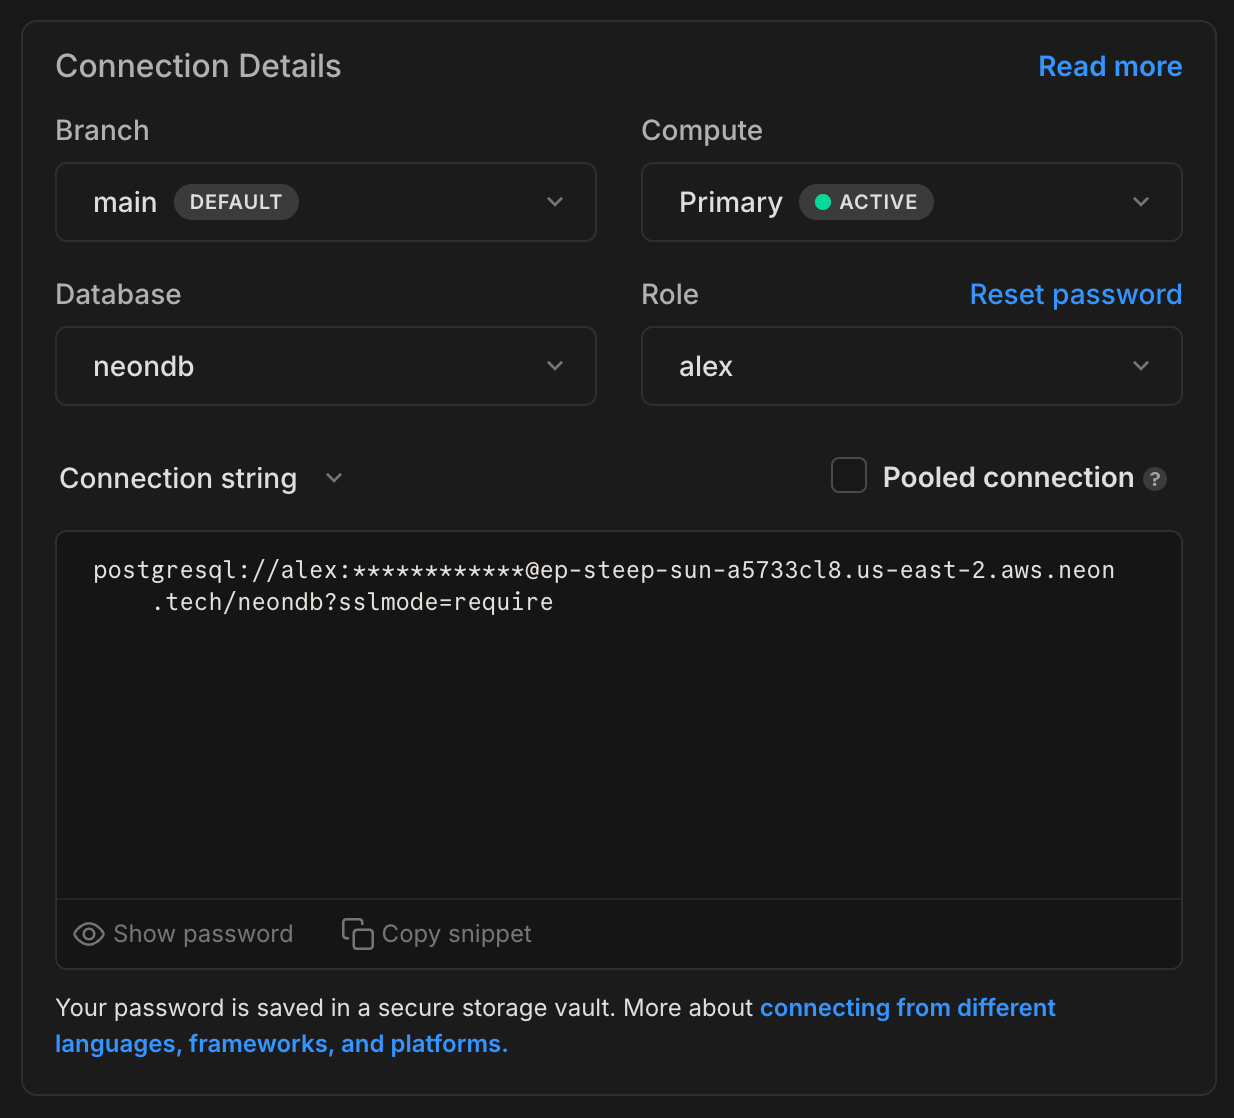
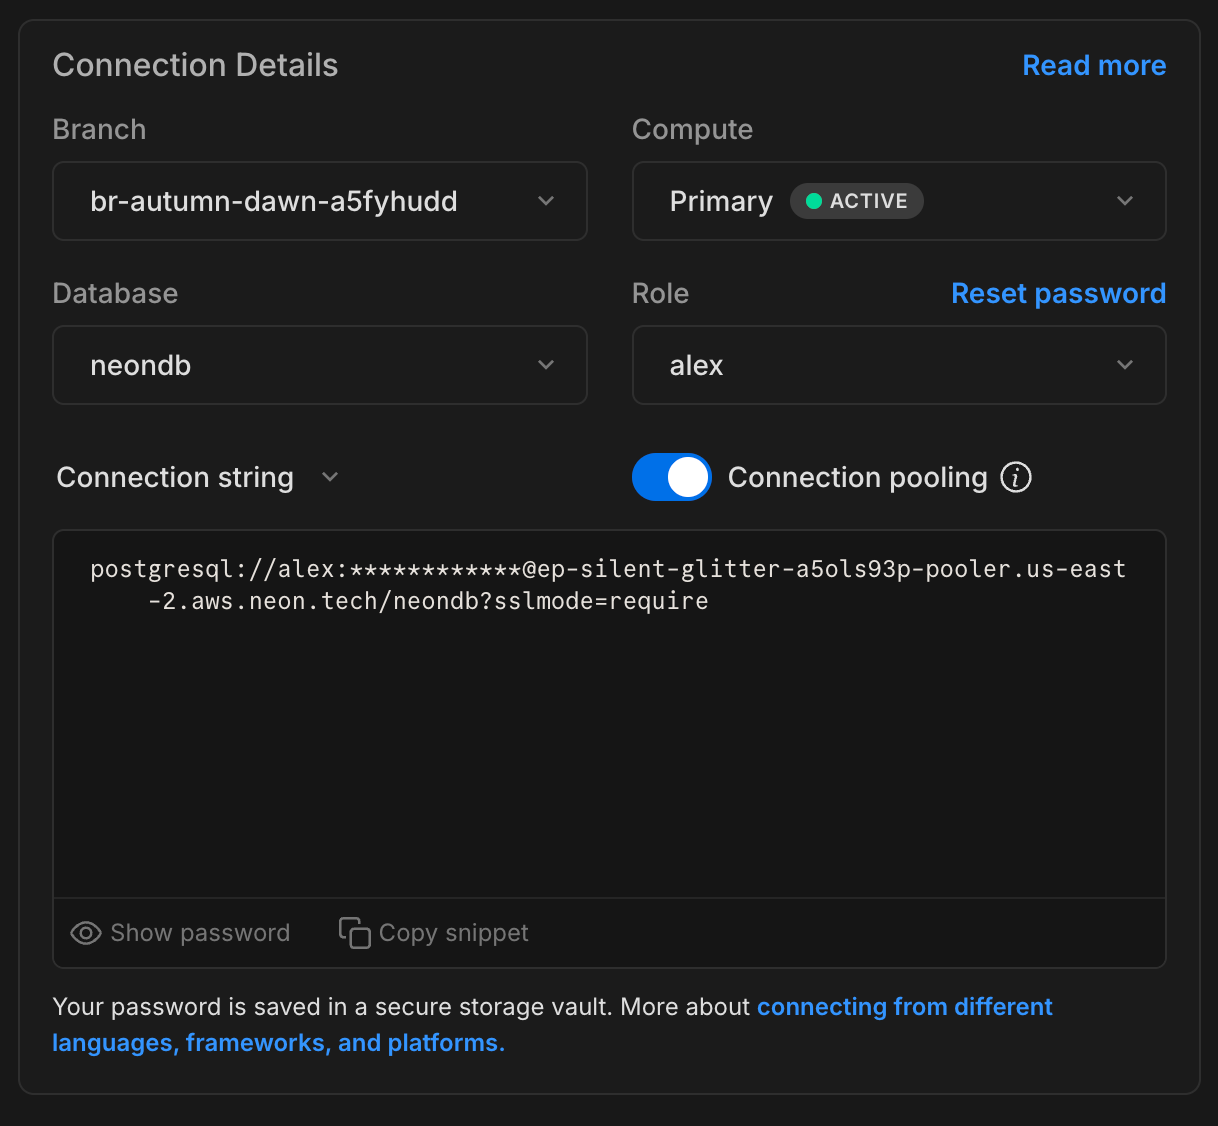
docs: update connection pooling label

diff --git a/content/docs/reference/glossary.md b/content/docs/reference/glossary.md
@@ -367,7 +367,7 @@ postgresql://alex:AbC123dEf@ep-cool-darkness-123456-pooler.us-east-2.aws.neon.te
 
 A pooled connection can support a high number of concurrent users and is recommended for use with serverless and edge functions. For more information, see [Connection pooling](/docs/connect/connection-pooling).
 
-You can obtain a pooled connection string for your database from the **Connection Details** widget on the Neon Dashboard. Select the **Pooled connection** option to add the `-pooler` option to the connection string. For further instructions, see [How to use connection pooling](/docs/connect/connection-pooling#how-to-use-connection-pooling).
+You can obtain a pooled connection string for your database from the **Connection Details** widget on the Neon Dashboard. Select the **Connection pooling** option to add the `-pooler` option to the connection string. For further instructions, see [How to use connection pooling](/docs/connect/connection-pooling#how-to-use-connection-pooling).
 
 ## PostgreSQL
 
@@ -537,7 +537,7 @@ An unpooled connection string connects to your Neon database directly. It does n
 postgresql://alex:AbC123dEf@ep-cool-darkness-123456.us-east-2.aws.neon.tech/dbname
 ```
 
-You can obtain an unpooled connection string for your database from the **Connection Details** widget on the Neon Dashboard. Ensure that the **Pooled connection** option is **not** selected. A direct connection is subject to the `max_connections` limit for your compute. For more information, see [How to size your compute](/docs/manage/endpoints#how-to-size-your-compute).
+You can obtain an unpooled connection string for your database from the **Connection Details** widget on the Neon Dashboard. Ensure that the **Connection pooling** option is **not** selected. A direct connection is subject to the `max_connections` limit for your compute. For more information, see [How to size your compute](/docs/manage/endpoints#how-to-size-your-compute).
 
 ## Time Travel
 

diff --git a/content/docs/get-started-with-neon/production-checklist.md b/content/docs/get-started-with-neon/production-checklist.md
@@ -77,7 +77,7 @@ The Postgres `max_connections` setting defines your basic maximum simultaneous c
 postgresql://alex:AbC123dEf@ep-cool-darkness-123456-pooler.us-east-2.aws.neon.tech/dbname?sslmode=require
 ```
 
-The `-pooler` flag directs connections to a connection pooling port at the Neon proxy. Unless you have a specific reason to avoid connection pooling, we recommend using it in production. You can copy a pooled connection string for your database from the **Connection Details** widget on your project's **Dashboard** in the Neon Console. Select the **Pooled connection** option. For more information, see [Connection pooling](/docs/connect/connection-pooling).
+The `-pooler` flag directs connections to a connection pooling port at the Neon proxy. Unless you have a specific reason to avoid connection pooling, we recommend using it in production. You can copy a pooled connection string for your database from the **Connection Details** widget on your project's **Dashboard** in the Neon Console. Enable the **Connection pooling** toggle. For more information, see [Connection pooling](/docs/connect/connection-pooling).
 
 ## Configure your history retention period
 

diff --git a/content/docs/connect/connection-pooling.md b/content/docs/connect/connection-pooling.md
@@ -17,9 +17,9 @@ To use connection pooling with Neon, use a pooled connection string instead of a
 postgresql://alex:AbC123dEf@ep-cool-darkness-123456-pooler.us-east-2.aws.neon.tech/dbname?sslmode=require
 ```
 
-The **Connection Details** widget on the Neon **Dashboard** provides **Pooled connection** checkbox that adds the `-pooler` option to a connection string for you. You can copy a pooled connection string from the **Dashboard** or manually add the `-pooler` option to the endpoint ID in an existing connection string.
+The **Connection Details** widget on the Neon **Dashboard** provides **Connection pooling** toggle that adds the `-pooler` option to a connection string for you. You can copy a pooled connection string from the **Dashboard** or manually add the `-pooler` option to the endpoint ID in an existing connection string.
 
-![Connection Details pooled connection string](/docs/connect/connection_details_pooled.png)
+![Connection Details pooled connection string](/docs/connect/connection_details.png)
 
 <Admonition type="info">
 The `-pooler` option routes the connection to a connection pooling port at the Neon Proxy.

diff --git a/content/docs/guides/read-replica-prisma.md b/content/docs/guides/read-replica-prisma.md
@@ -73,7 +73,7 @@ Connecting to a read replica is the same as connecting to any branch in a Neon p
    postgresql://alex:AbC123dEf@ep-cool-darkness-123456.us-east-2.aws.neon.tech/dbname
    ```
 
-   If you expect a high number of connections, select **Pooled connection** to add the `-pooler` flag to the connection string, but remember to append `?pgbouncer=true` to the connection string when using a pooled connection. Prisma requires this flag when using Prisma Client with PgBouncer. See [Use connection pooling with Prisma](/docs/guides/prisma#use-connection-pooling-with-prisma) for more information.
+   If you expect a high number of connections, enable the **Connection pooling** toggle to add the `-pooler` flag to the connection string, but remember to append `?pgbouncer=true` to the connection string when using a pooled connection. Prisma requires this flag when using Prisma Client with PgBouncer. See [Use connection pooling with Prisma](/docs/guides/prisma#use-connection-pooling-with-prisma) for more information.
 
 ## Update your env file
 

diff --git a/content/docs/security/security-overview.md b/content/docs/security/security-overview.md
@@ -37,7 +37,7 @@ You can designate any branch as a "protected branch", which implements a series 
 - Protected branches cannot be [reset](/docs/manage/branches#reset-a-branch-from-parent).
 - Projects with protected branches cannot be deleted.
 - Computes associated with a protected branch cannot be deleted.
-- New passwords are automatically generated for Postgres roles on branches created from protected branches. [See below](#new-passwords-generated-for-postgres-roles-on-child-branches).
+- New passwords are automatically generated for Postgres roles on branches created from protected branches.
 - With additional configuration steps, you can apply IP Allow restrictions to protected branches only. The [IP Allow](/docs/introduction/ip-allow) feature is available on the Neon [Scale](/docs/introduction/plans#scale) and [Business](/docs/introduction/plans#business) plans. See [below](#how-to-apply-ip-restrictions-to-protected-branches).
 - Protected branches are not [archived](/docs/guides/branch-archiving) due to inactivity.
 

diff --git a/content/docs/guides/prisma.md b/content/docs/guides/prisma.md
@@ -57,7 +57,7 @@ Serverless functions can require a large number of database connections as deman
 DATABASE_URL="postgresql://alex:AbC123dEf@ep-cool-darkness-123456-pooler.us-east-2.aws.neon.tech/dbname?sslmode=require"
 ```
 
-A pooled Neon connection string adds `-pooler` to the endpoint ID, which tells Neon to use a pooled connection. You can add `-pooler` to your connection string manually or copy a pooled connection string from the **Connection Details** widget on the Neon **Dashboard**. Use the **Pooled connection** checkbox to add the `-pooler` suffix.
+A pooled Neon connection string adds `-pooler` to the endpoint ID, which tells Neon to use a pooled connection. You can add `-pooler` to your connection string manually or copy a pooled connection string from the **Connection Details** widget on the Neon **Dashboard**. Enable the **Connection pooling** toggle to add the `-pooler` option to the connection string.
 
 ### Connection pooling with Prisma Migrate
 

diff --git a/content/docs/guides/cloudflare-workers.md b/content/docs/guides/cloudflare-workers.md
@@ -48,7 +48,7 @@ Log in to the Neon Console and navigate to the [Projects](https://console.neon.t
 
 ### Retrieve your Neon database connection string
 
-Log in to the Neon Console and navigate to the **Connection Details** section to find your database connection string. Select the **Pooled connection** option to add the `-pooler` option to your connection string. A pooled connection is recommended for serverless environments. For more information, see [Connection pooling](/docs/connect/connection-pooling).
+Log in to the Neon Console and navigate to the **Connection Details** section to find your database connection string. Enable the **Connection pooling** toggle to add the `-pooler` option to your connection string. A pooled connection is recommended for serverless environments. For more information, see [Connection pooling](/docs/connect/connection-pooling).
 
 Your pooled connection string should look similar to this:
 

diff --git a/content/docs/guides/typeorm.md b/content/docs/guides/typeorm.md
@@ -55,7 +55,7 @@ Serverless functions can require a large number of database connections as deman
 DATABASE_URL="postgresql://alex:AbC123dEf@ep-cool-darkness-123456-pooler.us-east-2.aws.neon.tech/dbname?sslmode=require"
 ```
 
-A pooled Neon connection string adds `-pooler` to the endpoint ID, which tells Neon to use a pooled connection. You can add `-pooler` to your connection string manually or copy a pooled connection string from the **Connection Details** widget on the Neon **Dashboard**. Use the **Pooled connection** checkbox to add the `-pooler` suffix.
+A pooled Neon connection string adds `-pooler` to the endpoint ID, which tells Neon to use a pooled connection. You can add `-pooler` to your connection string manually or copy a pooled connection string from the **Connection Details** widget on the Neon **Dashboard**. Enable the **Connection pooling** toggle to add the `-pooler` suffix.
 
 ## Connection timeouts
 

diff --git a/content/docs/guides/knex.md b/content/docs/guides/knex.md
@@ -47,7 +47,7 @@ Serverless functions can require a large number of database connections as deman
 DATABASE_URL="postgresql://alex:AbC123dEf@ep-cool-darkness-123456-pooler.us-east-2.aws.neon.tech/dbname?sslmode=require"
 ```
 
-A pooled Neon connection string adds `-pooler` to the endpoint ID, which tells Neon to use a pooled connection. You can add `-pooler` to your connection string manually or copy a pooled connection string from the **Connection Details** widget on the Neon **Dashboard**. Use the **Pooled connection** checkbox to add the `-pooler` suffix.
+A pooled Neon connection string adds `-pooler` to the endpoint ID, which tells Neon to use a pooled connection. You can add `-pooler` to your connection string manually or copy a pooled connection string from the **Connection Details** widget on the Neon **Dashboard**. Enable the **Connection pooling** toggle to add the `-pooler` suffix.
 
 ## Performance tips
 

diff --git a/content/guides/llamaindex-postgres-search-images.md b/content/guides/llamaindex-postgres-search-images.md
@@ -35,7 +35,7 @@ Using Serverless Postgres database helps you scale down to zero. With Neon, you 
 
 To get started, go to the [Neon console](https://console.neon.tech/app/projects) and enter the name of your choice as the project name.
 
-You will then be presented with a dialog that provides a connecting string of your database. Click on **Pooled connection** on the top right of the dialog and the connecting string automatically updates in the box below it.
+You will then be presented with a dialog that provides a connecting string of your database. You can enable the **Connection pooling** toggle for a pooled connection string.
 
 ![](/guides/images/llamaindex-postgres-search-images/create-database.png)
 

diff --git a/content/guides/feature-flags-sveltekit.md b/content/guides/feature-flags-sveltekit.md
@@ -30,7 +30,7 @@ Using Serverless Postgres database powered by Neon helps you scale down to zero.
 
 To get started, go to the [Neon console](https://console.neon.tech/app/projects) and enter the name of your choice as the project name.
 
-You will then be presented with a dialog that provides a connecting string of your database. Click on **Pooled connection** on the top right of the dialog and the connecting string automatically updates in the box below it.
+You will then be presented with a dialog that provides a connecting string of your database. Enable the **Connection pooling** toggle for a pooled connection string.
 
 ![](/guides/images/feature-flags-sveltekit/index.png)
 

diff --git a/content/guides/strapi-cms.md b/content/guides/strapi-cms.md
@@ -34,7 +34,7 @@ Using a serverless Postgres database powered by Neon lets you scale compute reso
 
 To get started, go to the [Neon console](https://console.neon.tech/app/projects) and create a project.
 
-You will then be presented with a dialog that provides a connection string of your database. Click on **Pooled connection** option and the connection string automatically updates to a pooled connection string.
+You will then be presented with a dialog that provides a connection string of your database. Enable the **Connection pooling** toggle for a pooled connection string.
 
 ![Neon Connection Details](/guides/images/strapi-cms/20b94d5f-aff4-4594-b60b-3a65d4fc884c.png)
 
